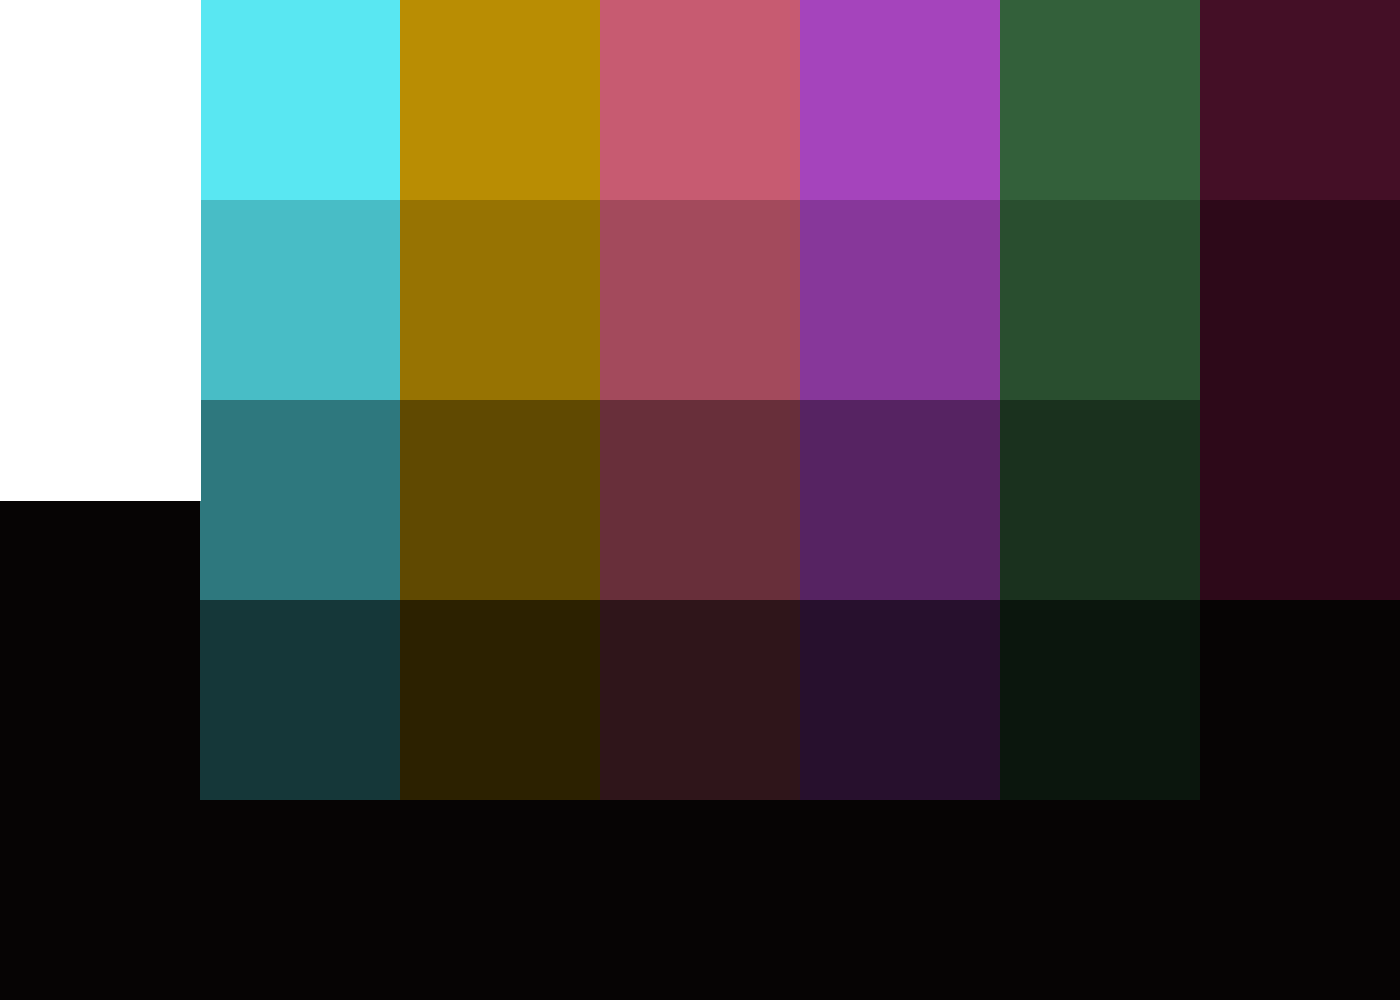
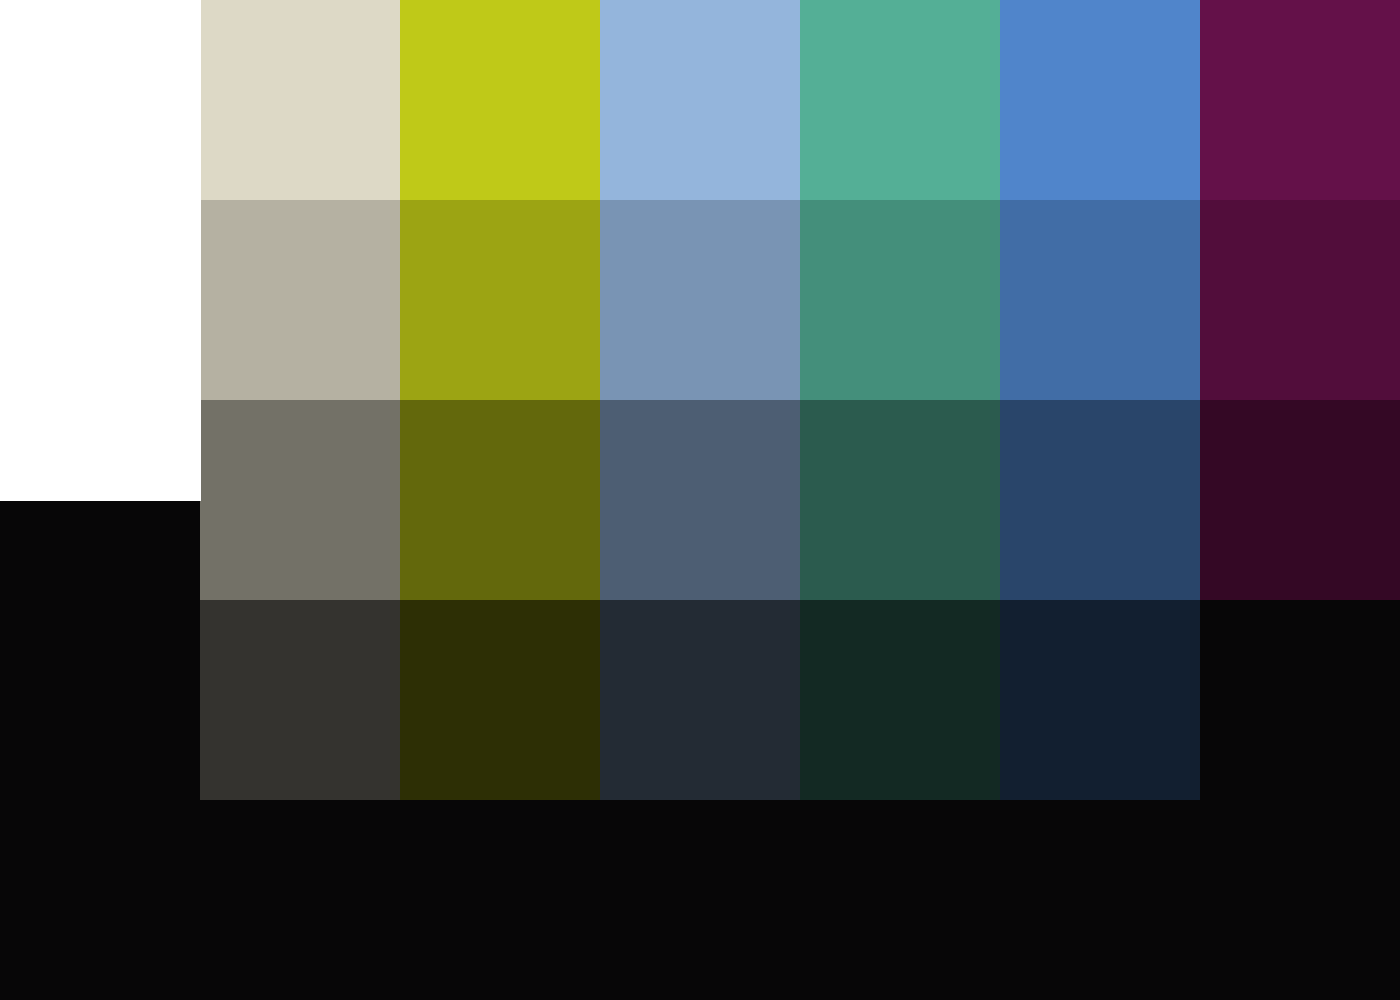
Added a coordinate system, a variation on the palette, and the AstroDecks where we can store and shuffle things.

diff --git a/space_vista.py b/space_vista.py
@@ -4,12 +4,13 @@
 # wonders from various rooms inside our space craft.
 
 
-from PIL import Image, ImageChops, ImageColor, ImageDraw, ImageFilter
 from functools import partial
 from itertools import product
+from PIL import Image, ImageChops, ImageColor, ImageDraw, ImageFilter
 from tqdm import tqdm
 import numpy as np
 import pandas as pd
+import shelve
 import subprocess
 
 # Constants
@@ -52,10 +53,24 @@ S_VERB = [
 
 # Classes
 
-#################################################################################
-# TO DO: Create a Coordinates class to hold the astronomical locations specific #
-# random number generator.                                                      #
-#################################################################################
+class Coordinates(np.random.Generator):
+    """
+    The random number generator seed for your location in the cosmos.
+    """
+    def __init__(self, coords=None):
+        if coords is None:
+            coords = RNG.integers(-2_147_483_648, 2_147_483_647, 3)
+        if type(coords) is str:
+            coords = np.array(
+                    [int(sc[:3]+sc[4:7]+sc[8:11]+sc[12:]) for sc in coords.split(' : ')]
+                )
+        self.coords = coords
+        bg = np.random.default_rng(coords + 2_147_483_648).bit_generator
+        super().__init__(bg)
+    def __str__(self):
+        strcoords = [f'{coord:+011}' for coord in self.coords]
+        strcoords = [sc[:3]+"*"+sc[3:6]+"°"+sc[6:9]+'.'+sc[9:] for sc in strcoords]
+        return ' : '.join(strcoords)
 
 
 class Vista:
@@ -76,9 +91,8 @@ class Vista:
         bearing=None,
         length=1200,
     ):
-        self.coords = coords
-        print(f"Approaching ({coords[0]}, {coords[1]}, {coords[2]})…")
-        self.RNG = np.random.default_rng(coords + 2_147_483_648)
+        self.RNG = coords
+        print(f"Approaching coordinates {coords}…")
         self.width = field_width
         if field_height is not None:
             self.height = field_height
@@ -120,8 +134,9 @@ class Vista:
             for dummy in range(self.length)
         )
         drawing_frames = tqdm(
-            ((im, ImageDraw.Draw(im, mode="RGBA")) for im in voids)
-            )
+            ((im, ImageDraw.Draw(im, mode="RGBA")) for im in voids),
+            total=1200,
+        )
         for frame_n, (im, df) in enumerate(drawing_frames):
             for body in self.bodies:
                 body.draw(im, df, frame_n)
@@ -149,7 +164,7 @@ class Vista:
                 "gifsicle",
                 file_name,
                 "-O3",
-                "--no-extensions", 
+                "--no-extensions",
                 "--optimize",
                 "--colors",
                 str(self.palette.n_colors),
@@ -673,6 +688,30 @@ class Palette:
         return plt_im.convert("P")
 
 
+class PastellerPalette(Palette):
+    def fill_shades(self, palette):
+        """
+        Takes a pd.Series of colors in RGB tuple and returns a pd.DataFrame of
+        the full palette of colors with the columns representing the shades.
+        """
+        palette.loc[:, 1] = palette.loc[:, 0]
+
+        def color_jump(color):
+            return tuple((c + 255) // 2 for c in color)
+
+        palette.loc[:, 0] = palette.loc[:, 0].apply(color_jump)
+
+        def color_dive(color, *, s=0):
+            factor = 1 - s * 0.7 / (self.shade_depth)
+            return tuple(int(c * factor) for c in color)
+
+        for shade in range(2, self.shade_depth):
+            palette.loc[:, shade] = palette.loc[:, (shade - 1)].apply(
+                partial(color_dive, s=shade)
+            )
+        return palette
+
+
 class SplitComplementaryPalette(Palette):
     def random_palette(self, color_depth=6):
         base_hue = self.vista.RNG.integers(0, 360)
@@ -751,6 +790,24 @@ class ComplementaryPalette16(Palette):
         return self.fill_shades(palette)
 
 
+class DeckPlan:
+    def __init__(self, *interiors):
+        self.interiors = list(interiors)
+        self.reset_plan()
+
+    def reset_plan(self):
+        self.plan = self.interiors.copy()
+        self.shuffle()
+
+    def shuffle(self):
+        RNG.shuffle(self.plan)
+
+    def pop(self):
+        if len(self.plan) == 1:
+            self.reset_plan()
+        return self.plan.pop()
+
+
 ## Helper Functions
 
 
@@ -790,6 +847,46 @@ def flame_like(im, box, left_curl=False, whisp=False, color=None):
     return flames
     # return ImageChops.lighter(im, flames)
 
+
+def random_spacescape():
+    coords = Coordinates()
+    p = pd.Series([tuple(coords.integers(0, 256, 3)) for dummy in range(6)])
+    spacescape = Vista(
+        coords=coords, palette=coords.choice([Palette, PastellerPalette], p=(0.5, 0.5))(p)
+    )
+    stars = StarField(spacescape, coords.integers(450, 551))
+    total_planets = coords.integers(3, 9)
+    for n in range(total_planets):
+        print(f"Surveying planet {n+1} of {total_planets}…")
+        BasePlanet(spacescape)
+    with shelve.open("AstroDecks", writeback=True) as AD:
+        if "interiors" in AD:
+            AD["interiors"].pop()(spacescape)
+        else:
+            AD["interiors"] = DeckPlan(
+                partial(Interior, file_path="observation_windows.png"),
+                AstroGarden,
+                Engineering,
+                StellarCafe,
+            )
+    print("Painting spacescape!")
+    spacescape.save()
+    im = spacescape.palette.get_image()
+    im.save("palette.png")
+    im.close()
+    s_noun = RNG.choice(S_NOUN)
+    s_verb = RNG.choice(S_VERB)
+    if s_noun[-1] != "s":
+        s_verb += "s"
+    computer_readout = {
+        "coords": f"{RNG.choice(GERUNDS)} coordinates {coords}…",
+        "star density": f"Star density = {spacescape.bodies[0].n_stars/(spacescape.bodies[0].fieldsize)}",
+        "planetoids": f"{s_noun} {s_verb} {total_planets} planetoids.",
+    }
+    return computer_readout
+
+
+# Testing
 
 ## Exploratory Functions
 
@@ -834,35 +931,6 @@ def remixer(im, order=None, inverts=None):
     reorder.append(a)
     reordered_im = Image.merge("RGBA", reorder)
     return reordered_im
-
-
-# Testing
-
-
-class DeckPlan:
-    def __init__(self, *interiors):
-        self.interiors = list(interiors)
-        self.reset_plan()
-
-    def reset_plan(self):
-        self.plan = self.interiors.copy()
-        self.shuffle()
-
-    def shuffle(self):
-        RNG.shuffle(self.plan)
-
-    def pop(self):
-        if len(self.plan) == 1:
-            self.reset_plan()
-        return self.plan.pop()
-
-
-INTERIORS = DeckPlan(
-    partial(Interior, file_path="observation_windows.png"),
-    AstroGarden,
-    Engineering,
-    StellarCafe,
-)
 
 
 class Yule(Interior):
@@ -918,30 +986,3 @@ def run_test():
     im = test.palette.get_image()
     im.save("palette.png")
     print("\a")
-
-
-def random_spacescape():
-    coords = RNG.integers(-2_147_483_648, 2_147_483_647, 3)
-    p = pd.Series([tuple(RNG.integers(0, 256, 3)) for dummy in range(6)])
-    spacescape = Vista(coords=coords, palette=Palette(p))
-    stars = StarField(spacescape, spacescape.RNG.integers(450, 551))
-    total_planets = spacescape.RNG.integers(3, 9)
-    for n in range(total_planets):
-        print(f'Surveying planet {n+1} of {total_planets}…')
-        BasePlanet(spacescape)
-    interior = INTERIORS.pop()(spacescape)
-    print("Painting spacescape!")
-    spacescape.save()
-    im = spacescape.palette.get_image()
-    im.save("palette.png")
-    im.close()
-    s_noun = RNG.choice(S_NOUN)
-    s_verb = RNG.choice(S_VERB)
-    if s_noun[-1] != "s":
-        s_verb += "s"
-    computer_readout = {
-        "coords": f"{RNG.choice(GERUNDS)} ({spacescape.coords[0]}, {spacescape.coords[1]}, {spacescape.coords[2]})…",
-        "star density": f"Star density = {spacescape.bodies[0].n_stars/(spacescape.bodies[0].fieldsize)}",
-        "planetoids": f"{s_noun} {s_verb} {total_planets} planetoids.",
-    }
-    return computer_readout
